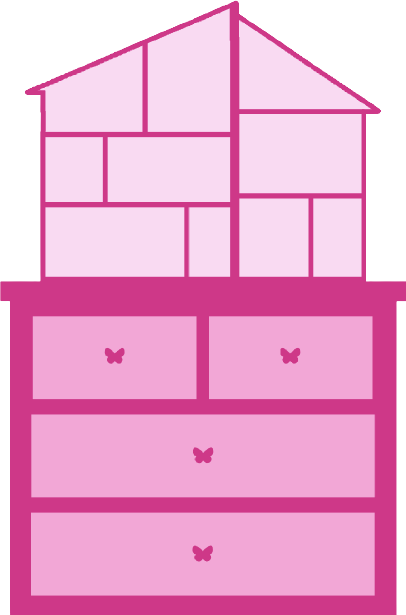
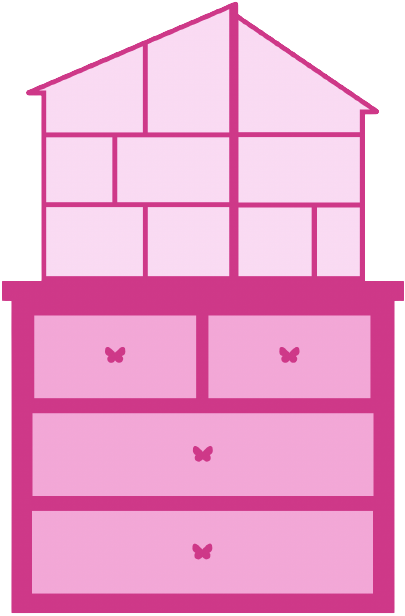
Add files via upload

diff --git a/styles/style.css b/styles/style.css
@@ -78,6 +78,7 @@ article:nth-of-type(1) {
   background-size: 500px 650px;
 
   height: 650px;
+  max-width: 90em;
 }
 
 section:nth-of-type(2) {
@@ -149,11 +150,102 @@ section:nth-of-type(2) button:nth-of-type(6) {
 /*******************************************/
 
 /* de kast met huis erop */
-article:nth-of-type(2){
+section:nth-of-type(3){
   background-image: url(../images/barbie-kast-met-huis.png);
   background-repeat: no-repeat;
-  background-position: 90%;
+  background-position: 85%;
   background-size: 400px 650px;
 
   height: 650px;
+  min-width: 65em;
+
+  display: grid; 
+  grid-template-columns: 1fr repeat(2, 2fr) repeat(2, 1fr); 
+  grid-template-rows: repeat(5, 1fr); 
+  grid-column-gap: 2px;
+  grid-row-gap: 2px;
 }
+
+/* de 1959 debut Barbie pop */
+section:nth-of-type(3) button:nth-of-type(1){
+  grid-area: 3 / 1 / 4 / 2; } 
+
+/* de 1965 buigende knie Barbie pop */
+section:nth-of-type(3) button:nth-of-type(2){ 
+  grid-area: 3 / 2 / 4 / 3; }
+
+/* de 1967 Twist n Turn Barbie pop */
+section:nth-of-type(3) button:nth-of-type(3){ 
+  grid-area: 2 / 1 / 3 / 2; }
+
+/* Barbie poppen 1971 */
+section:nth-of-type(4){
+    display: flex;
+  }
+
+/* de 1971 Malibu Barbie pop */
+section:nth-of-type(4) button:nth-of-type(4){
+  grid-area: 2 / 2 / 3 / 3; } 
+
+/* de 1971 Live Action Barbie pop */
+section:nth-of-type(4) button:nth-of-type(5){ 
+  grid-area: 2 / 2 / 3 / 3; } 
+
+/* de 1980 darkskin Barbie pop */
+section:nth-of-type(3) button:nth-of-type(6){ 
+  grid-area: 1 / 1 / 2 / 2; }
+
+/* de 2015 flat feet Barbie pop */
+section:nth-of-type(3) button:nth-of-type(7){ 
+  grid-area: 1 / 2 / 2 / 3; }
+
+/* Barbie poppen 2016 */
+section:nth-of-type(5){
+  display: flex;
+}
+
+/* de 2016 curvy Barbie pop */
+section:nth-of-type(5) button:nth-of-type(8){ 
+  grid-area: 1 / 3 / 2 / 5; }
+
+/* de 2016 petite Barbie pop */
+section:nth-of-type(5) button:nth-of-type(9){ 
+  grid-area: 1 / 3 / 2 / 5; }
+
+/* de 2016 tall Barbie pop */
+section:nth-of-type(5) button:nth-of-type(10){ 
+  grid-area: 1 / 3 / 2 / 5; }
+
+/* Barbie poppen 2020 */
+section:nth-of-type(6){
+  display: flex;
+}
+
+/* de 2020 kale Barbie pop */
+section:nth-of-type(6) button:nth-of-type(11){ 
+  grid-area: 2 / 3 / 3 / 5; }
+
+/* de 2020 rolstoel Barbie pop */
+section:nth-of-type(6) button:nth-of-type(12){ 
+  grid-area: 2 / 3 / 3 / 5; }
+
+/* de 2020 vitiligo Barbie pop */
+section:nth-of-type(6) button:nth-of-type(13){ 
+  grid-area: 2 / 3 / 3 / 5; }
+
+/* Barbie poppen 2022 */
+section:nth-of-type(7){
+  display: flex;
+}
+
+/* de 2022 beenprothese Barbie pop */
+section:nth-of-type(7) button:nth-of-type(14){ 
+  grid-area: 3 / 3 / 4 / 4; }
+
+/* de 2022 gehoorapparaten Barbie pop */
+section:nth-of-type(7) button:nth-of-type(15){ 
+  grid-area: 3 / 3 / 4 / 4; }
+
+/* de 2023 syndroom van Down Barbie pop */
+section:nth-of-type(3) button:nth-of-type(16){ 
+  grid-area: 3 / 4 / 4 / 5; } 

diff --git a/index.html b/index.html
@@ -40,10 +40,74 @@
 					alt="Barbie as a frontline worker during the pandamic, outfit from 2021." />
 			</button>
 		</section>
-	</article>
-	<article>
-		<section>
 
+		<section>
+			<button>
+				<img src="images/debut-doll.png" alt="the first Barbie doll from 1959.">
+			</button>
+			<button>
+				<img src="images/1965-bending-knees-doll.png"
+					alt="the first Barbie doll that has bending knees from 1965.">
+			</button>
+			<button>
+				<img src="images/1967-twistNturn-doll.png"
+					alt="this Barbie doll can twist her waist around, from 1967.">
+			</button>
+			<section>
+				<button>
+					<img src="images/1971-mailbu-doll.png"
+						alt="the Malibu Barbie doll has a new face and also the first Barbie doll where her eyes look forwards and not sideways, from 1971.">
+				</button>
+				<button>
+					<img src="images/1971-liveAction-doll.png"
+						alt="Live Action Barbie doll that can move her waist, legs, arms and neck. The doll can even dance! From the year 1971.">
+				</button>
+			</section>
+			<button>
+				<img src="images/1980-black-doll.png"
+					alt="the first Barbie doll produced that has a dark skin, from 1980.">
+			</button>
+			<button>
+				<img src="images/2015-flatFeet-doll.png"
+					alt="Barbie dolls get flat feet instead of curved heels, from 2015.">
+			</button>
+			<section>
+				<button>
+					<img src="images/2016-curvy-doll.png"
+						alt="Barbie with a new body type and different proportions: the curvy Barbie, from 2016.">
+				</button>
+				<button>
+					<img src="images/2016-petite-doll.png"
+						alt="Barbie with a new body type and different proportions: the petite Barbie, from 2016.">
+				</button>
+				<button>
+					<img src="images/2016-tall-doll.png"
+						alt="Barbie with a new body type and different proportions: the tall Barbie, from 2016.">
+				</button>
+			</section>
+			<section>
+				<button>
+					<img src="images/2020-kale-doll.png" alt="A bald Barbie from 2020.">
+				</button>
+				<button>
+					<img src="images/2020-rolstoel-doll.png" alt="Barbie in a wheelchair from 2020.">
+				</button>
+				<button>
+					<img src="images/2020-vitiligo-doll.png" alt="Barbie with vitiligo from 2020.">
+				</button>
+			</section>
+			<section>
+			<button>
+				<img src="images/2022-fakeLeg-doll.png" alt="Barbie with a leg prosthesis from 2022.">
+			</button>
+			<button>
+				<img src="images/2022-gehoor-doll.png" alt="Barbie with hearing aids from 2022.">
+			</button>
+		</section>
+			<button>
+				<img src="images/2023-downsyndrome-doll.png"
+					alt="A Barbie doll that represents people with Down Syndrome from 2023.">
+			</button>
 		</section>
 	</article>
 

diff --git a/scripts/script.js b/scripts/script.js
@@ -1,2 +1,10 @@
 // JavaScript Document
-console.log("Howdy!");
+console.log("Hi Barbie! Hi Ken!");
+
+///////// KLEDINGKAST OUTFITS /////////
+var debutOutfit = document.querySelector("section:nth-of-type(2) button:nth-of-type(1)");
+var chirurgOutfit = document.querySelector("section:nth-of-type(2) button:nth-of-type(2)");
+var zwemmerOutfit = document.querySelector("section:nth-of-type(2) button:nth-of-type(3)");
+var presidentOutfit = document.querySelector("section:nth-of-type(2) button:nth-of-type(4)");
+var schermerOutfit = document.querySelector("section:nth-of-type(2) button:nth-of-type(5)");
+var pandemieOutfit = document.querySelector("section:nth-of-type(2) button:nth-of-type(6)");
